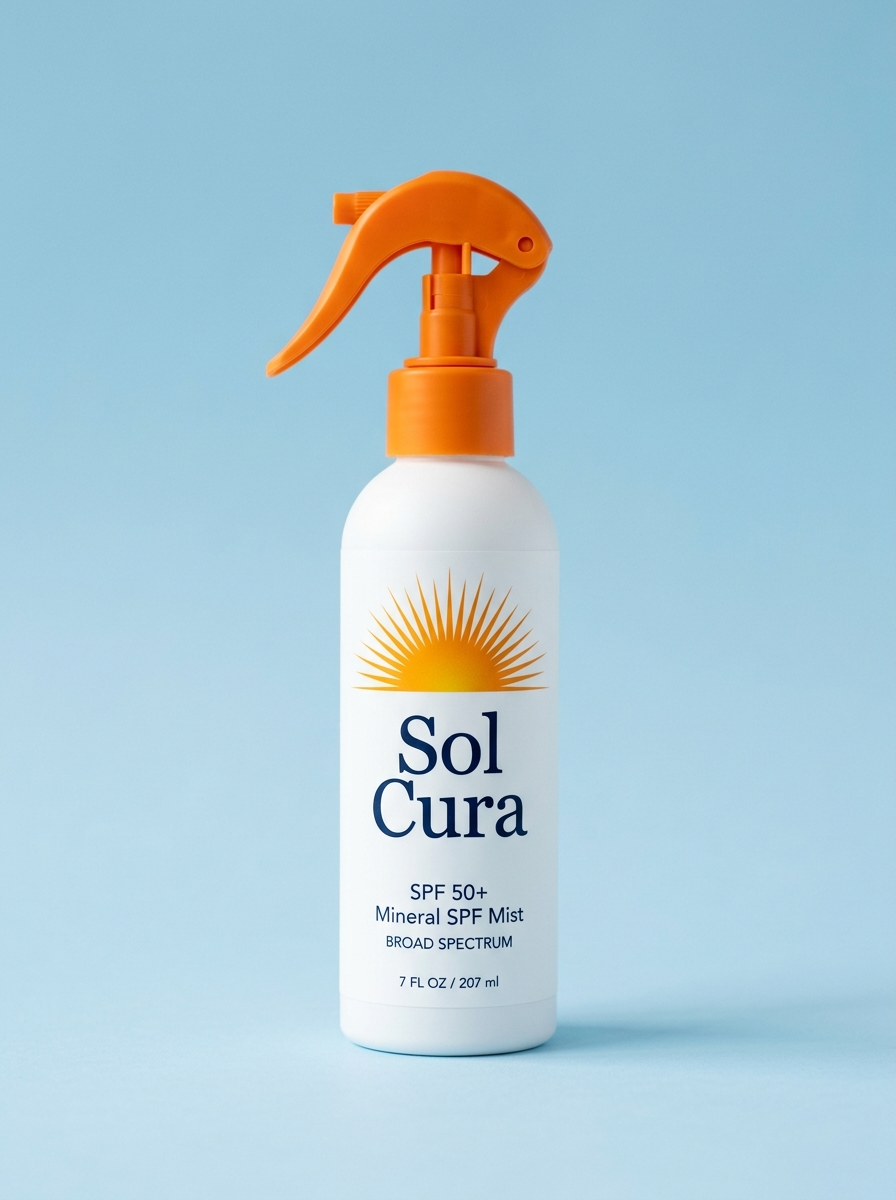
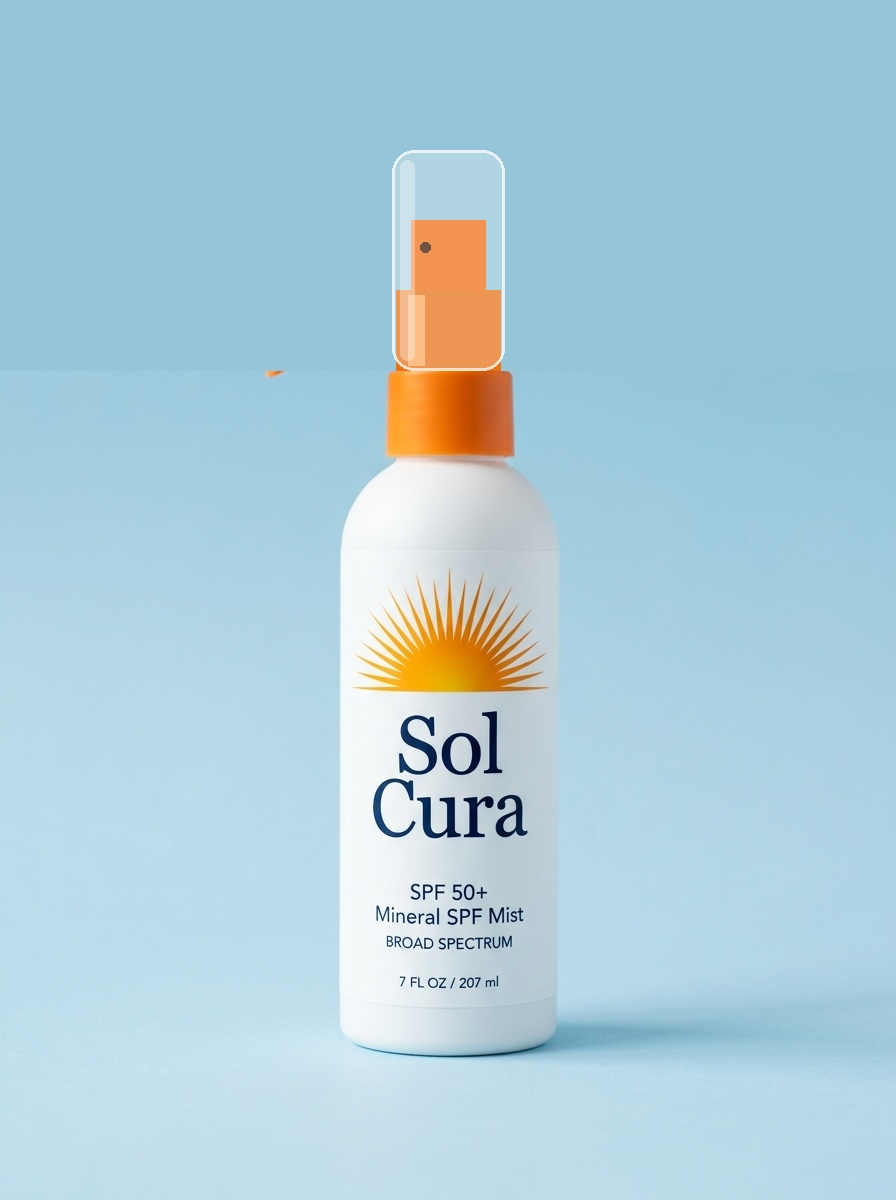
✨ Upgrade Product Designs: Ergonomic, sunscreen-friendly Stick & Cosmetic Fine-Mist Spray
Sunscreen Stick Upgrade:
- Replaced blocky balm stick with a modern wide-oval facial SPF swipe stick with rounded twist base
- Ergonomic contour designed for smooth swipe across cheeks, nose, and forehead

SPF Mist Upgrade:
- Replaced industrial trigger nozzle spray bottle with a sleek cosmetic fine-mist spray bottle
- Clear protective translucent cap & compact actuator for effortless fine-mist application over makeup
- Updated benefit descriptions to highlight mess-free facial swipe and fine-mist reapplication

Changed region(s): [[0.2812, 0.1233, 0.625, 0.3083]]

diff --git a/index.html b/index.html
@@ -320,7 +320,7 @@
         <div class="product-card__body">
           <div class="product-card__spf">SPF 50+ · Broad Spectrum</div>
           <h3 class="product-card__name">Mineral Sunscreen Stick</h3>
-          <p class="product-card__benefit">Swipe. Blend. Go. Your on-the-go companion for active days outdoors.</p>
+          <p class="product-card__benefit">Ergonomic wide-oval swipe stick for mess-free facial SPF reapplication on cheeks, nose &amp; forehead.</p>
           <div class="product-card__stars">★★★★★ <span>(524)</span></div>
           <div class="product-card__footer">
             <div>
@@ -341,7 +341,7 @@
         <div class="product-card__body">
           <div class="product-card__spf">SPF 50+ · Broad Spectrum</div>
           <h3 class="product-card__name">SPF Mist</h3>
-          <p class="product-card__benefit">Reapply without disrupting your day — or your makeup.</p>
+          <p class="product-card__benefit">Sleek ultra-fine continuous face &amp; body mist — effortless reapplication over makeup, zero sticky residue.</p>
           <div class="product-card__stars">★★★★☆ <span>(312)</span></div>
           <div class="product-card__footer">
             <div>
